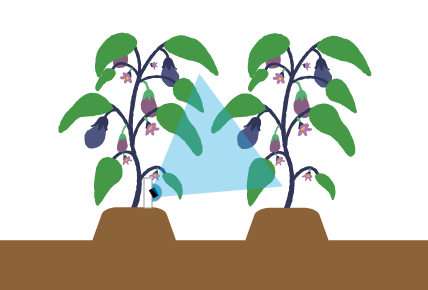
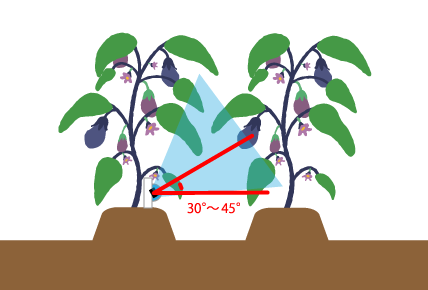
文言、画像を修正

Changed region(s): [[0.3341, 0.5586, 0.6379, 0.7448], [0.486, 0.4655, 0.6075, 0.5586]]

diff --git a/style.css b/style.css
@@ -1,3 +1,12 @@
 .camera {
-    width: 250px;
+    width: 100px;
+}
+
+img~em {
+    display: block;
+    margin: -1rem auto 0;
+    line-height: 1.3;
+    text-align: center;
+    color: #93a5b1;
+    font-size: .95rem;
 }

diff --git a/camera-Installation-procedure.md b/camera-Installation-procedure.md
@@ -1,6 +1,6 @@
 <link href="style.css" rel="stylesheet"></link>
 
-#ナスの生育情報(花・果実数)取得システムのカメラ設置手順
+# ナスの生育情報(花・果実数)取得システムのカメラ設置手順
 
 
 ## 推奨カメラスペック
@@ -23,19 +23,44 @@
 撮影したい対象物の正面に130〜150cm離してカメラ設置する。
 カメラが対象物に近いと撮影範囲が狭くなる。遠すぎても対象物が小さくなり、認識精度が落ちる。
 
-<img class="camera" src="img/eggplant1.png" >
-
-図1. 上から見たカメラ設置
+<img src="img/eggplant1.png">
+<br>
+<em>図1. 上から見たカメラ設置</em>
+<br>
+</br>
 
 レンズの角度は30°〜45°、対象物の距離に合わせて調整する。
 なるべく手前の株の葉っぱがカメラにかからないようにする。
 
-<img class="camera" src="img/eggplant2.png" >
-
-図2. 横から見たカメラ設置
+<img src="img/eggplant2.png" >
+<br>
+<em>図2. 横から見たカメラ設置</em>
+<br>
+<br>
 
 撮影した画像を確認し、以下の項目が満たされていること。
 * 主枝が4本以上写っていること
 * 主枝の上部まで写っていること
 * 株元から20cm程上から写っていること
-<img class="camera" src="img/eggplant3.png" >
+
+<img src="img/eggplant3.png" >
+<br>
+<em>図3. 撮影イメージ図</em>
+<br>
+<br>
+
+<img width="490px" src="img/eggplant4.jpg" >
+<br>
+<em>図4. 実際に撮影した画像</em>
+<br>
+<br>
+
+## 注意点
+* 定期的にレンズが汚れていないか確認をする
+
+画像のように土埃等で汚れてくるが、このままだと花・果実の認識精度が下がる。
+定期的にレンズを清掃することを推奨する。
+<img width="490px" src="img/camera1.jpg" >
+<em>図5. 汚れたカメラ</em>
+<br>
+<br>
